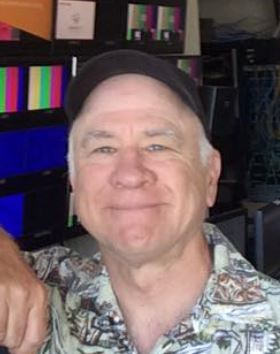
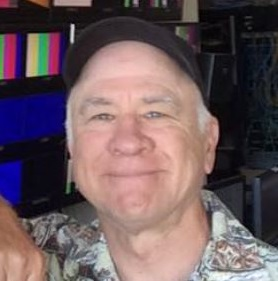
updates to site

diff --git a/index.html b/index.html
@@ -105,7 +105,7 @@
       </span>
        <span>
            <div class="contact">
-              <p>  <img class="img-circle" width="130px" src="img/egan.png" alt=""/></br>
+              <p>  <img class="img-circle" width="130px" src="img/egan.jpg" alt=""/></br>
                  
           
            Daniel Egan</br>
